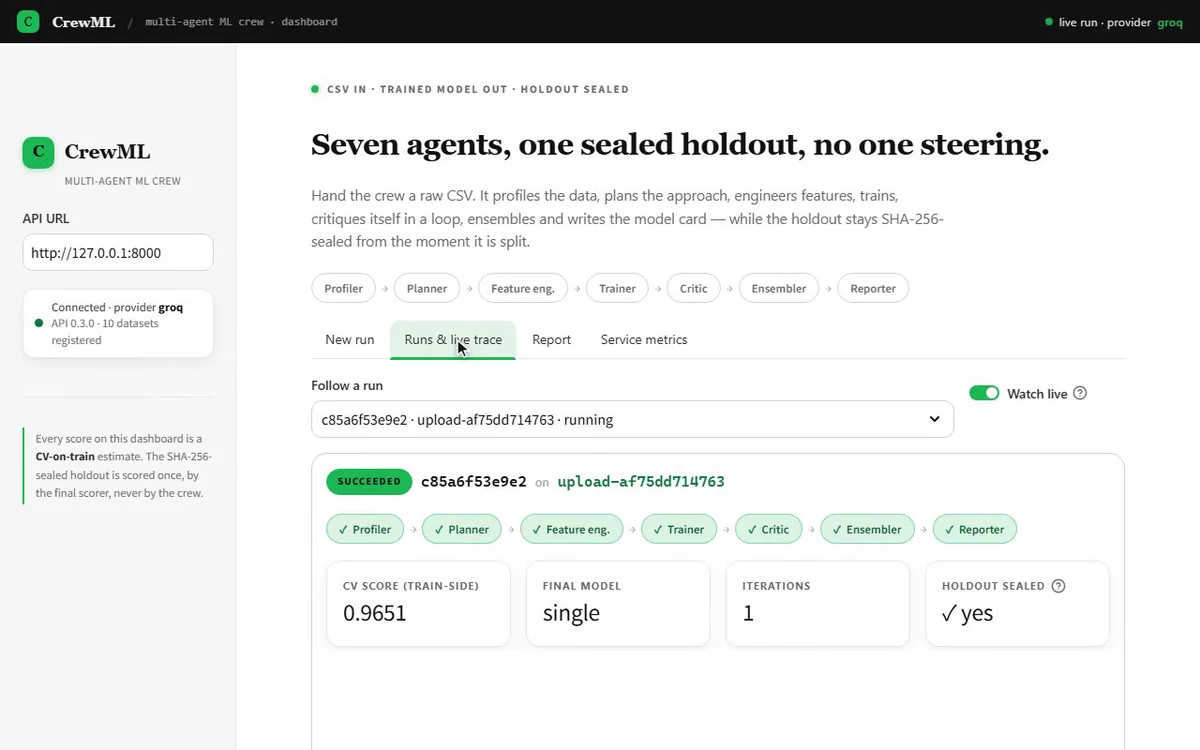
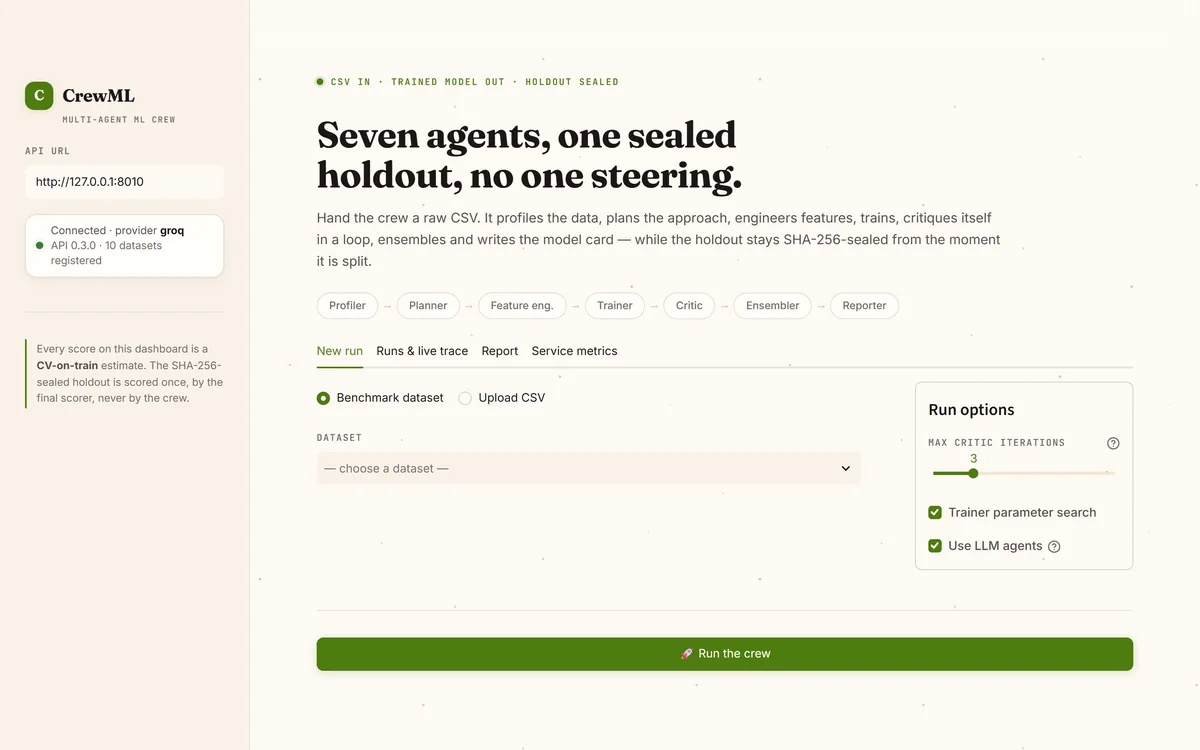
Use home-page screenshots of each app
CrewML's showcase and the six More projects cards now show the home page of
each app, captured from a local run at 1440x900.

diff --git a/index.html b/index.html
@@ -399,7 +399,10 @@
     }
     .card:hover { transform: translateY(-6px); box-shadow: var(--shadow-md); border-color: var(--line-2); }
     .card.hide { display: none; }
-    .card-body { padding: 28px; display: flex; flex-direction: column; flex: 1; }
+    .card-media { aspect-ratio: 16 / 10; overflow: hidden; background: var(--bg-3); border-bottom: 1px solid var(--line); }
+    .card-media img { width: 100%; height: 100%; object-fit: cover; object-position: top center; transition: transform 0.8s var(--ease); }
+    .card:hover .card-media img { transform: scale(1.04); }
+    .card-body { padding: 24px; display: flex; flex-direction: column; flex: 1; }
     .card-body .kicker { margin-bottom: 10px; font-size: 0.62rem; }
     .card h4 { font-family: var(--font-display); font-weight: 600; font-size: 1.22rem; letter-spacing: -0.015em; line-height: 1.25; margin-bottom: 10px; }
     .card p { color: var(--ink-2); font-size: 0.88rem; line-height: 1.75; margin-bottom: 18px; flex: 1; }
@@ -810,7 +813,7 @@ server.<span class="f">run</span>()  <span class="c"># any MCP client can call i
       <a class="feature-media" href="https://github.com/Mark007-R/CrewML" target="_blank" rel="noopener">
         <div class="frame">
           <div class="frame-bar"><i></i><i></i><i></i><em>github.com/Mark007-R/CrewML</em></div>
-          <img src="assets/projects/crewml.webp" alt="CrewML dashboard after a finished run: all seven agents done, CV score 0.9651, holdout still sealed" loading="lazy" width="1200" height="750" />
+          <img src="assets/projects/crewml.webp" alt="CrewML dashboard home: the seven-agent pipeline, run options and a connected API with 10 datasets" loading="lazy" width="1200" height="750" />
         </div>
       </a>
       <div class="feature-body">
@@ -883,6 +886,7 @@ server.<span class="f">run</span>()  <span class="c"># any MCP client can call i
     </div>
     <div class="grid">
       <article class="card reveal">
+        <div class="card-media"><img src="assets/projects/customer-ops.webp" alt="Approver dashboard with a pending action awaiting two approvals and the audit log" loading="lazy" width="960" height="600" /></div>
         <div class="card-body">
           <div class="kicker">Agents &middot; Regulated finance</div>
           <h4>AI-Customer-Ops-Engine</h4>
@@ -892,6 +896,7 @@ server.<span class="f">run</span>()  <span class="c"># any MCP client can call i
         </div>
       </article>
       <article class="card reveal">
+        <div class="card-media"><img src="assets/projects/stock.webp" alt="Stock Price Predictor home page with ticker and horizon inputs" loading="lazy" width="960" height="600" /></div>
         <div class="card-body">
           <div class="kicker">Time series &middot; Honest negative</div>
           <h4>Stock-Price-Forecaster</h4>
@@ -901,6 +906,7 @@ server.<span class="f">run</span>()  <span class="c"># any MCP client can call i
         </div>
       </article>
       <article class="card reveal">
+        <div class="card-media"><img src="assets/projects/diagram.webp" alt="DiagraMine home page with pipeline settings and a diagram upload area" loading="lazy" width="960" height="600" /></div>
         <div class="card-body">
           <div class="kicker">Computer vision &middot; Document AI</div>
           <h4>Diagram-Structure-Extractor</h4>
@@ -910,6 +916,7 @@ server.<span class="f">run</span>()  <span class="c"># any MCP client can call i
         </div>
       </article>
       <article class="card reveal">
+        <div class="card-media"><img src="assets/projects/restaurant.webp" alt="RestoAI sign-in page" loading="lazy" width="960" height="600" /></div>
         <div class="card-body">
           <div class="kicker">NLP &middot; RAG</div>
           <h4>Restaurant-Intelligence-Platform</h4>
@@ -919,6 +926,7 @@ server.<span class="f">run</span>()  <span class="c"># any MCP client can call i
         </div>
       </article>
       <article class="card reveal">
+        <div class="card-media"><img src="assets/projects/data-analyst.webp" alt="DataAI home page with the dataset drop zone and the four analysis steps" loading="lazy" width="960" height="600" /></div>
         <div class="card-body">
           <div class="kicker">LLM tools &middot; Analytics</div>
           <h4>AI-Data-Analyst</h4>
@@ -928,6 +936,7 @@ server.<span class="f">run</span>()  <span class="c"># any MCP client can call i
         </div>
       </article>
       <article class="card reveal">
+        <div class="card-media"><img src="assets/projects/document-qa.webp" alt="RagLeo workspace with PDF upload, document list and question box" loading="lazy" width="960" height="600" /></div>
         <div class="card-body">
           <div class="kicker">RAG &middot; Documents</div>
           <h4>Document-QA-RAG</h4>
